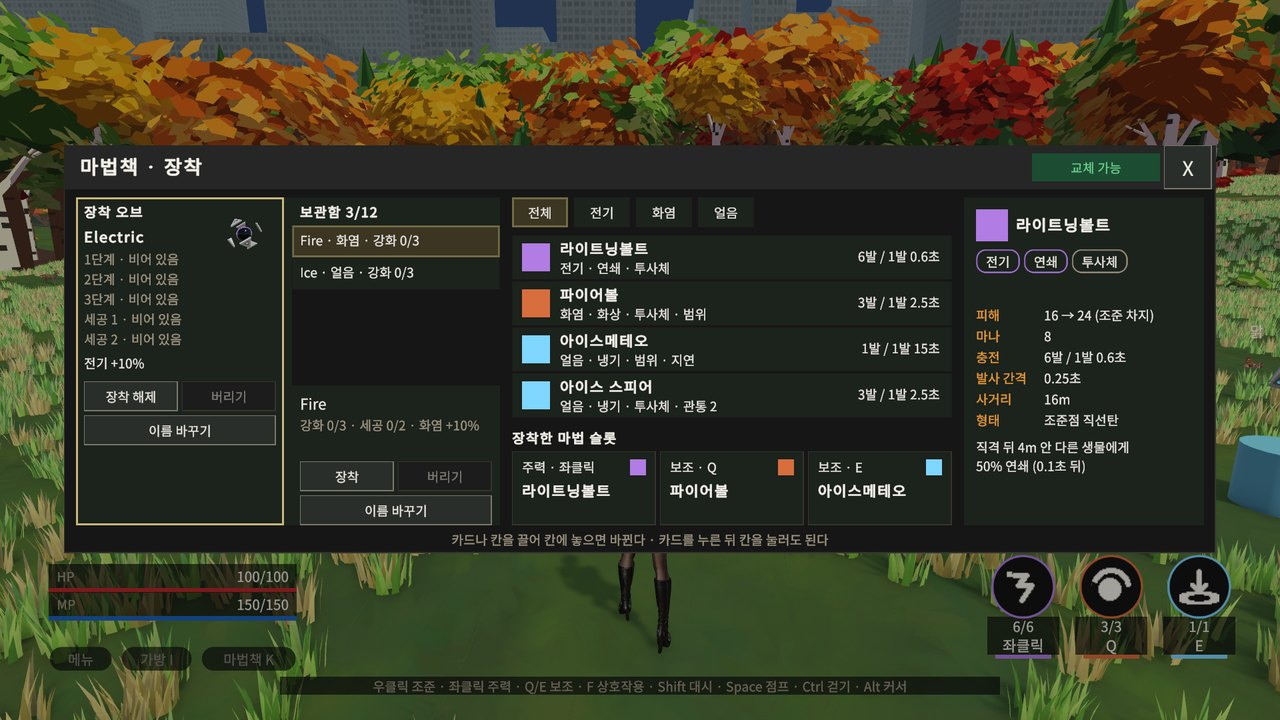
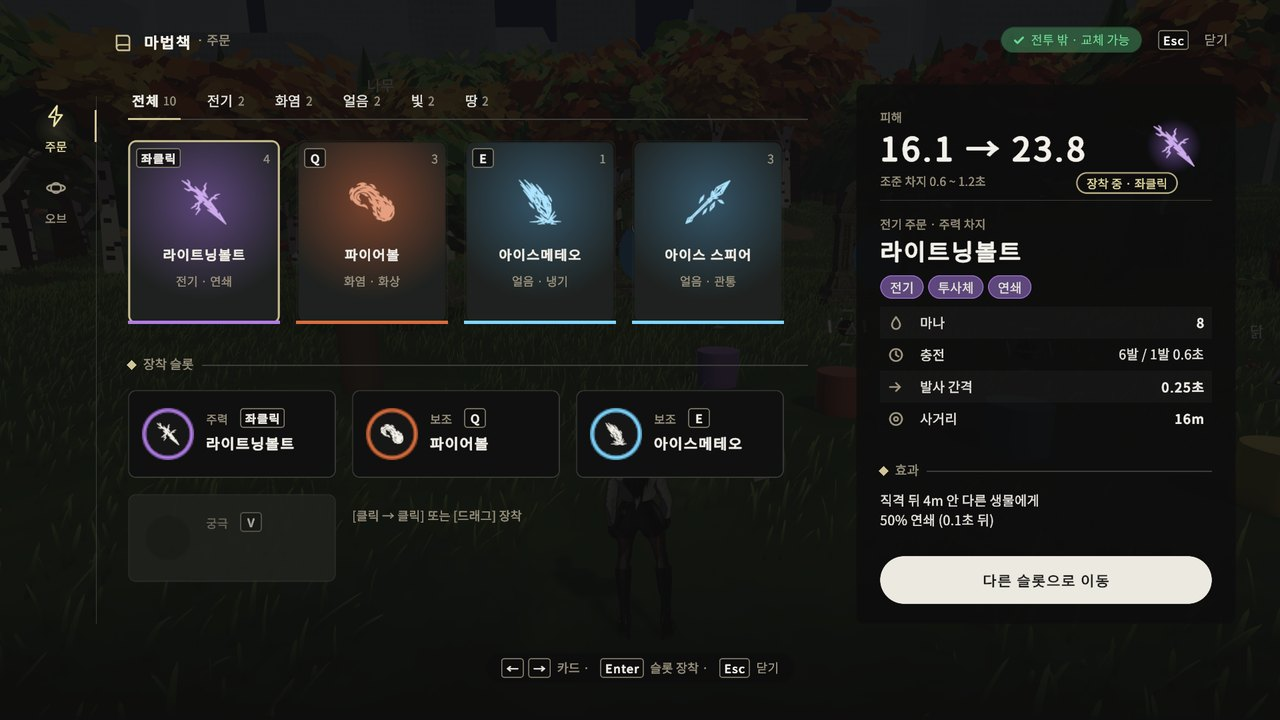
slides: UI 개선 과정 — 필드 HUD 탭 추가, 마법책 수정 후를 최신 캡처로

diff --git a/slides/wild-arcana/index.html b/slides/wild-arcana/index.html
@@ -411,7 +411,8 @@ table.orbs td { padding: 6px 18px; color: var(--ink); border-left: 1px solid var
   <p class="kicker">02 · Claude 협업</p>
   <h1>UI 개선 과정 <span class="muted" style="font-size:28px;font-weight:400">같은 화면의 수정 전·후</span></h1>
   <div class="chips ui-tabs">
-    <button class="chip on" data-set="마법책">마법책</button>
+    <button class="chip on" data-set="hud">필드 HUD</button>
+    <button class="chip" data-set="마법책">마법책</button>
     <button class="chip" data-set="원정">원정 시작</button>
     <button class="chip" data-set="입장">던전 입장</button>
     <button class="chip" data-set="랭킹">랭킹</button>
@@ -427,7 +428,7 @@ table.orbs td { padding: 6px 18px; color: var(--ink); border-left: 1px solid var
     <div class="ba-row"><p><b>수정 후</b>AI 시안 이미지 → 벡터 추적(SVG), 주문 10종 모두 다른 그림</p><div class="ba-ic svg" data-icons="후"></div></div>
   </div>
   <p class="muted ba-fix">과정: 게임 캡처 → 사용자 지적 → 목업과 비교 → Codex 수정 → 같은 구도로 다시 캡처</p>
-  <div class="note">트러블슈팅처럼 같은 구도로 찍어 비교. 마법책 #370: 이름 잘림·창 0.67배 → 1배·한 줄 목록. 원정 시작 #593: 카드 3장 → 현황판과 같은 지도. 던전 입장 #384: "배경이 너무 잘 보여서 구리다" → 흐림·어둡힘. 랭킹 #105: "심심하고 아쉽다" → 순위 표식·속성색·상세 열. 주문 아이콘 #720: "너무 단순하다" → VARCO 시안 10장을 vtracer로 추적한 SVG, HUD 아이콘 26 → 40px.</div>
+  <div class="note">트러블슈팅처럼 같은 구도로 찍어 비교. 필드 HUD: 10-14 캡처(#392) → 10-27 main 실제 필드 씬 캡처(생활 T, 궁극 V #465, 아이콘 #720). 마법책 #370 → #383: 이름 잘림·창 0.67배 → 창 키우기(#370) → v3 디자인 문법으로 전체 화면 재구성(#383). 원정 시작 #593: 카드 3장 → 현황판과 같은 지도. 던전 입장 #384: "배경이 너무 잘 보여서 구리다" → 흐림·어둡힘. 랭킹 #105: "심심하고 아쉽다" → 순위 표식·속성색·상세 열. 주문 아이콘 #720: "너무 단순하다" → VARCO 시안 10장을 vtracer로 추적한 SVG, HUD 아이콘 26 → 40px.</div>
 </section>
 <!-- Blender MCP 모델링 -->
 <section class="slide" id="s9" data-title="Blender MCP 모델링">
@@ -759,7 +760,8 @@ table.orbs td { padding: 6px 18px; color: var(--ink); border-left: 1px solid var
   // ── UI 개선 과정: 같은 화면 수정 전·후 ─────────────────
   // 이미지는 media/ph/ui-<키>-전.jpg / -후.jpg. 아이콘은 ui-아이콘-전-NN.png / -후-NN.svg(10개).
   var UI_SETS = {
-    '마법책': { 전: '창 0.67배 축소, 주문 이름 잘림', 후: '창 1배, 한 줄 목록·속성 필터, 글자 13px 이상' },
+    hud: { 전: '주문 칸 3개, 단순 선 아이콘', 후: '생활·궁극 칸 추가 5칸, 주문별 아이콘 40px, 조작 안내 줄' },
+    '마법책': { 전: '필드 위 작은 창(0.67배), 주문 이름 잘림', 후: '전체 화면 v3: 속성 탭, 주문 카드, 장착 칸 3개 + 궁극, 상세 열' },
     '원정': { 전: '봉인 카드 3장 나열', 후: '현황판과 같은 지도형: 던전 3곳 + 허브' },
     '입장': { 전: '뒤 배경이 그대로 비침, 창이 묻힘', 후: '배경 흐림·어둡힘, 창 뒤 금빛 번짐' },
     '랭킹': { 전: '글자 위주 목록', 후: '1~3위 표식, 속성색 구, 숙련 칩, 상세 열' },
